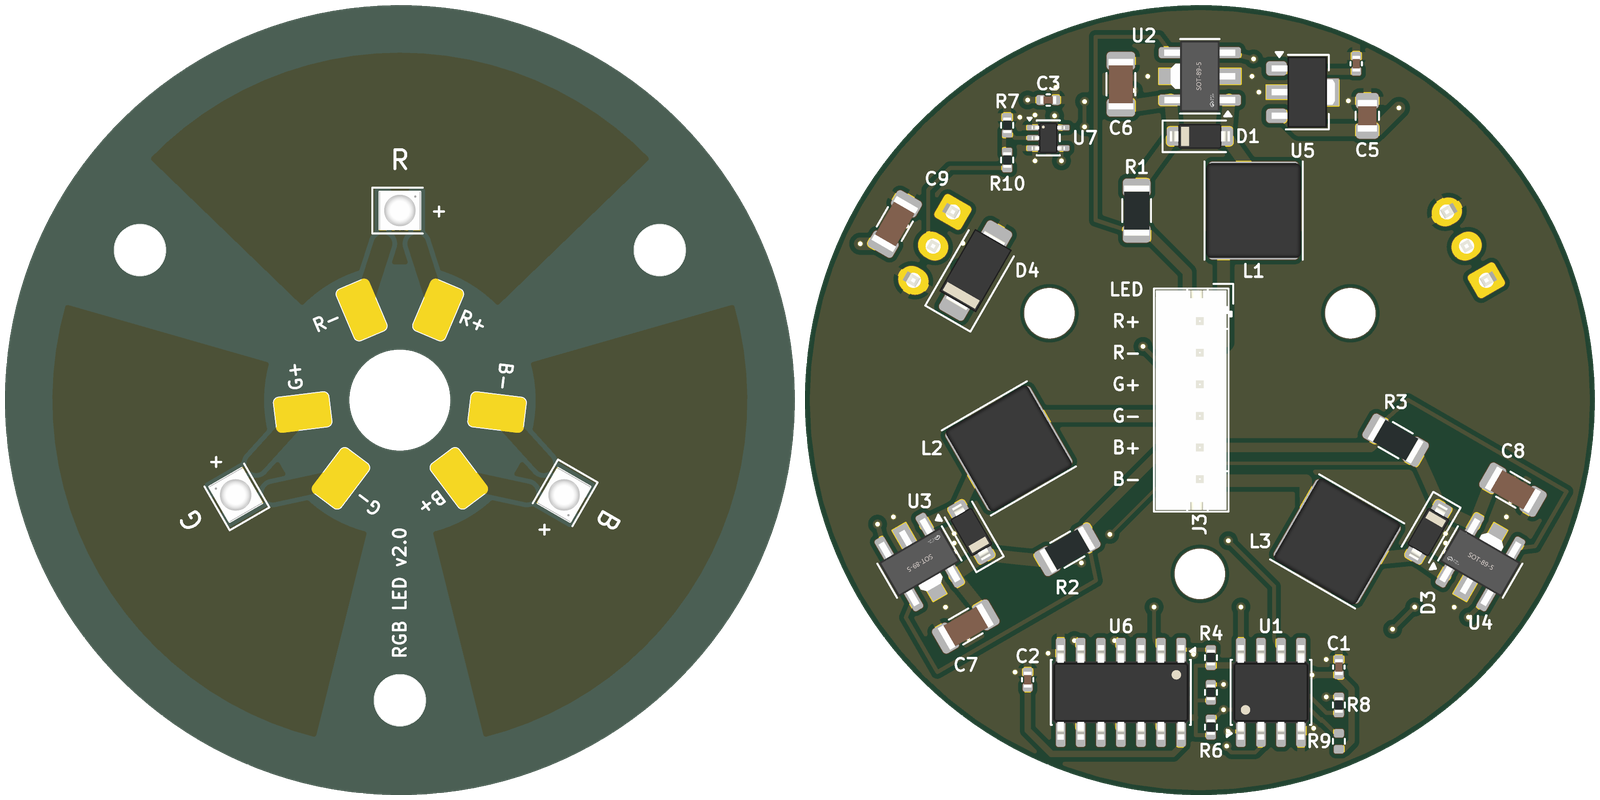
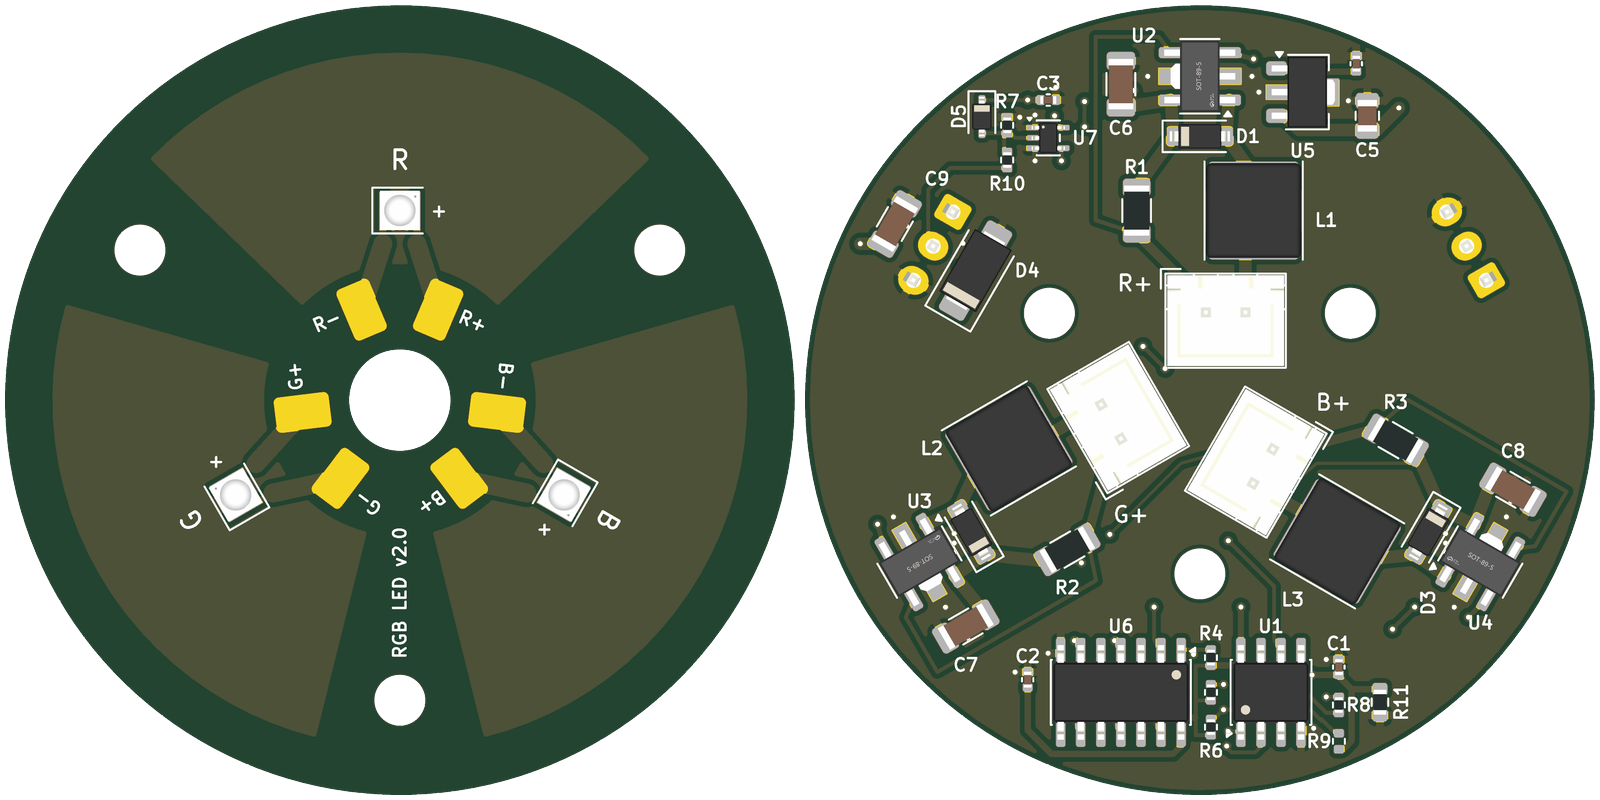
docs: the README follows the lamp as designed: housing, optics, the order
The README still described two boards "in an aluminium cylinder" and an
order in the cart. It now says what the design is on 2026-11-19:

- status: driver v2.4, LED board v2.0, led35 v1.0, housing round 8; the
  first order submitted to JLC and in its reviews, unpaid (the orders
  tracker; order.toml has no submitted event yet); the lenses ordered
- the lamp: lenses, carrier, hood and barn doors, the sheet-metal
  housing with its sizes, the heat plate and fins, the yoke; the LED
  board turned 45 degrees; the driver's clamp on the data input; the
  harness on three XH plugs
- the lamp's front view and section from the assembly guide's pictures
- firmware: only FastLED's timing is checked against the datasheet. The
  README said WLED works, which nobody has checked
- layout: mech/housing, releases, production/orders, the guide and the
  front page; the generator commands apart from the checks, with the
  rule that a released board is changed in place
- BOM: 22 lines at about $1.80 (was 20 and $1.70, before D5, R11 and
  the XH sockets)

docs/previews/v2-boards.png is put together again from the current
renders (docs/previews/led and driver, render-top.png): it showed the
driver with the 6-pin LED socket of v2.0, without D5 and R11.

diff --git a/README.md b/README.md
@@ -1,37 +1,64 @@
 # RGB Spotlight
 
-Status (2026-11-18): driver released as v2.4 (with D5, a clamp on the data input, R11, which holds the +5V rail when it clamps, three JST XH 2-pin sockets for the LEDs, and R10 rated for a feed voltage held on the data pin) and LED board as v2.0; a second LED board for 3.5 mm LEDs, `led35` v1.0, is released to be bought bare for trying other colours; the first order is in the JLC cart, unpaid, with driver v2.4. Start with [HANDOVER.md](HANDOVER.md).
+Status (2026-11-19): designed and released, not built yet. The driver is released as v2.4, the LED board as v2.0, a second LED board for 3.5 mm LEDs (`led35`) as v1.0, and the sheet-metal housing is in its eighth round. The first order, boards and housing for five lamps, was submitted to JLC on 2026-11-19: it is in JLC's reviews and not paid yet. The lenses were ordered the same day. Every figure on this page is calculated or simulated; none is measured. Start with [HANDOVER.md](HANDOVER.md).
 
-Chainable, addressable 3 x 3 W RGB spotlight for 12 V installations: an aluminium LED board and an FR4 driver board in an aluminium cylinder.
+Chainable, addressable 3 x 3 W RGB spotlight for 12 V installations: three LEDs, red, green and blue, each behind its own lens, in a square aluminium housing with four barn doors, on a yoke. One lamp is one WS2811 pixel.
 
-![v2 boards: LED board (aluminium) and driver board](docs/previews/v2-boards.png)
+![The lamp from the front, with the doors opened outwards](docs/assembly/img/lamp-front.webp)
+
+The pictures on this page are drawn from the design files. None is a photo.
 
 - **v1** (EasyEDA, one FR4 board) was built but never lit: the PT4115 stages were wired as the wrong kind of buck, and the 74HC04 was unpowered.
-- **v2** is a KiCad restart with two boards.
+- **v2** is a KiCad restart with two boards, an aluminium LED board and an FR4 driver board, and a housing designed around them.
 
 | Document | What's in it |
 | --- | --- |
 | [HANDOVER.md](HANDOVER.md) | how we got here, decisions, the work remaining |
 | [DESIGN.md](DESIGN.md) | requirements, the v1 post-mortem, numbered decisions, circuit, thermal estimate, simulation (§2.7), open items |
-| [LAYOUT.md](LAYOUT.md) | both PCBs: floor plans, rules, scripted copper and routing, outline presets, checks |
-| [PRODUCTION.md](PRODUCTION.md) | order files, order checklist (polarity!), harness and bring-up, costs |
+| [LAYOUT.md](LAYOUT.md) | the PCBs: floor plans, rules, scripted copper and routing, outline presets, checks |
+| [mech/housing/](mech/housing/README.md) | the housing: sheet-metal parts, bought fasteners, assembly order, the scripts that build it and the files to order it from |
+| [PRODUCTION.md](PRODUCTION.md) | order files, order checklist (polarity!), harness and bring-up, costs, the orders so far |
+| [production/orders/2026-11-16-v2-first/](production/orders/2026-11-16-v2-first/ORDER.md) | the first order: the versions it pins, the parts to buy besides, its events |
 | [docs/reviews/](docs/reviews/) | pre-order failure review: findings, bench list, firmware duties |
 | [docs/index.html](docs/index.html) | the project's front page: what the lamp is, where it stands, links. GitHub Pages serves `docs/` at <https://somebox.github.io/rgb-spotlight/> |
 | [docs/assembly/](docs/assembly/index.html) | assembly guide (HTML, open in a browser): the finished lamp, every part numbered, tools, and 14 steps with pictures drawn from the design files. Written before any part arrived: nothing in it is tried on hardware yet |
 
 ## What it does
 
-A high-power, addressable RGB pixel for spotlights and creative lighting. It speaks the WS2811 protocol, so it daisy-chains and works with FastLED, WLED and other WS2811-compatible software.
+A high-power, addressable RGB pixel for spotlights and creative lighting. It speaks the WS2811 protocol: 12 V and one data wire come in, and both go on to the next lamp.
 
+The three colours are not mixed inside the lamp. Each LED has its own lens, 12 mm off the lamp's axis, and the colours meet on the wall. Where a door's edge cuts the beam, each colour is cut at a slightly different place, which leaves three colour bands along the shadow. That is the effect the design is after (DESIGN D8, D21–D23). How the bands look is not known until a lamp is built.
+
+- **Optics:** three 20 mm PMMA TIR lenses, 30°, one over each LED.
+  - They sit in one printed carrier (MJF PA12), and the hood clamps them by their flanges.
+  - Four barn doors on the hood shape the beam, one pair at a time (D21, D22).
+  - To compare, lenses of 15° and 45° and with beaded and frosted faces are ordered too, and two taller carriers to try the focus (D27).
+- **Housing** ([mech/housing/](mech/housing/README.md)): sheet aluminium from JLCCNC, black powder coat.
+  - A 65 mm square shell with vent slots, a back cap, an 84 mm square hood, and a yoke with two knobs.
+  - About 94 mm long, 130 with the doors standing; about 0.38 kg (estimated).
+  - The cap's back has two cut-outs for the connectors and four M3 threads for a box with a controller and a power supply (D31).
+  - The yoke's base has one hole for a ¼ inch screw and two for M4.
+- **Cooling:** passive. The LED board lies on a 3 mm aluminium plate. Behind it, eight spacers and four fins on three tie rods take the LEDs' heat to the air that passes the shell's slots.
 - **LED board** (aluminium, 1 layer, 50 mm):
   - three XINGLIGHT HD2525 3 W LEDs (R/G/B), spread on a 12 mm-radius ring;
   - each LED on its own heat-spreading copper island;
-  - six wire pads around a centre hole for the harness.
-- **Driver board** (FR4, 2 layers, 50 mm), mounted 4–6 cm behind the LED board:
+  - six wire pads around a centre hole for the harness;
+  - turned 45° in the housing, so each LED has its own height and its own place from left to right (D23).
+- **Driver board** (FR4, 2 layers, 50 mm), on polyamide standoffs behind the fins, about 54 mm behind the LED board:
   - WS2811 pixel controller;
   - three PT4115 constant-current bucks (455 mA each);
-  - level shifter on DIN; inverter for the PWM polarity;
+  - level shifter on DIN, with a clamp for a feed voltage on the data pin (D28, D29, D34); Schmitt inverter for the PWM polarity;
   - 78L05 logic rail; TVS on the 12 V input.
+- **Harness:** three wire pairs from the LED board through the 12 mm bore down the middle of the plate, spacers and fins, each on its own JST XH 2-pin plug (D33).
+- **`led35`:** the LED board with pads for 3.5 mm LEDs, bought bare to try other colours on (D35).
+
+![The lamp cut through the middle, without doors and yoke](docs/assembly/img/lamp-section.webp)
+
+The numbers are the assembly guide's part numbers: shell 1, cap 2, hood 3, plate 6, fins 7, spacers 8, carrier 9, LED board 10, driver 11, lenses 12, LED leads 13, tie studs 15, standoffs 18.
+
+![LED board v2.0 and driver board v2.4](docs/previews/v2-boards.png)
+
+The LED board is drawn with a green mask; the ordered ones are white.
 
 ## Electrical specs
 
@@ -39,9 +66,11 @@ A high-power, addressable RGB pixel for spotlights and creative lighting. It spe
 - **Data:** WS2811 protocol, 800 kHz, single wire; 3.3 V or 5 V at DIN
 - **LED current:** about 455 mA per channel (`I = 0.1 V / 0.22 Ω`); LEDs rated 1 A / 3 W
 - **Full white:** 5.0 W, 0.42 A at 12 V per light (simulated, DESIGN.md §2.7); drivers about 80 % efficient
-- **Chaining:** JST XH connectors (3 A) pass 12 V/GND through: up to 5 lights per fused 12 V feed, 2.2–2.6 A (DESIGN.md §2.4). Use a 36 W supply for 4 lights and 60 W for 5, and add a feed per group after that.
-- **Heat:** about 2.7 W in the LED board, which needs a heatsink: the housing's heat plate. About 0.9 W in the driver, mostly in the three Schottky diodes. See DESIGN.md §2.6–2.7.
+- **Chaining:** JST XH connectors (3 A) pass 12 V/GND through: up to 5 lights per 12 V feed, 2.2–2.6 A, with a 3 A fuse at the supply end (DESIGN.md §2.4, D14, D15). Use a 36 W supply for 4 lights and 60 W for 5, and add a feed per group after that.
+- **Heat:** about 2.7 W in the LED board, which goes into the housing's heat plate and fins. About 0.9 W in the driver, mostly in the three Schottky diodes. See DESIGN.md §2.6–2.7.
 - **Dimming:** brightness follows the 8-bit level within 5 % above 20 % and within 20 % down to 5 %. The lowest few levels are unreliable (DESIGN.md §2.7).
+- **12 V on the data pin** (a mis-crimped cable): simulated with up to 15 V there, the level shifter's input stays at 5.43 V or less and the 5 V rail at 5.0 V (D28, D29). On the bench list.
+- **Firmware:** FastLED's `WS2811` (800 kHz) fits the WS2811's timing. ESPHome needs its timing set by hand (the review's firmware duties). WLED hasn't been checked. None of it has run on a lamp yet.
 
 ## Connections
 
@@ -52,7 +81,7 @@ A high-power, addressable RGB pixel for spotlights and creative lighting. It spe
 | J3 / J4 / J5 LED | driver, front (JST XH 2, vertical): red, green, blue | 1 `+`, 2 `-` |
 | TP1–TP6 | LED board, around the centre hole | `R+` `R-` `G+` `G-` `B+` `B-`; solder the wires here, a pair to each socket |
 
-J1 and J2 share one pin order, so chain with pin-1-to-pin-1 cables. v1 had J2 mirrored.
+J1 and J2 share one pin order, so chain with pin-1-to-pin-1 cables. v1 had J2 mirrored. In the housing, both are reached through the cap's cut-outs.
 
 1. Connect the controller's data to J1 pin 2 of the first light, and +12 V / GND to pins 1 / 3. Keep controller and power grounds common.
 2. Chain J2 of one light to J1 of the next.
@@ -64,24 +93,36 @@ J1 and J2 share one pin order, so chain with pin-1-to-pin-1 cables. v1 had J2 mi
 - `boards/led35/`: the LED board with pads for 3.5 mm LEDs (DESIGN D35), bought bare; `scripts/sch_led.py led35` and `scripts/make_led_pcb.sh led35`.
 - `lib/`: project symbols, footprints and 3D models (`scripts/make_lib.py`).
 - `scripts/`: generators and checks (`netcheck.py`, `ratsnest.py`, `make_previews.sh`, `make_fab.sh`); `pcbkit.toml` sets up pcb-kit's release and production record. The shared parts (schematic builder, silkscreen placer, DRC/ERC/board checks, previews, JLC fab files, ngspice runner) come from [pcb-kit](https://github.com/somebox/pcb-kit): `uv tool install -e ~/src/pcb-kit && pcbkit link`.
-- `sim/`: ngspice simulation of one LED channel (`sim/channel.py`); tables and plots in `sim/results/`.
+- `mech/housing/`: the housing as CadQuery scripts (`sheet.py`, then `round2.py` to `round8.py`, each changing the round before), its checks, and the STEP files and drawings to order from (`order6/`, `order7/`, `order8/`). Its [README](mech/housing/README.md) has the parts, the fasteners and the rebuild commands.
+- `releases/<board>/v<version>/`: a release's order files and its frozen KiCad project, written by `pcbkit release` and never rewritten.
+- `production/orders/<date>-<what>/`: an order's `order.toml` and the ORDER.md that `pcbkit production` writes from it.
+- `sim/`: ngspice simulations of one LED channel (`channel.py`) and of the data link between two lights (`data_cable.py`), and the review's worst-case numbers (`worst_case.py`); tables and plots in `sim/results/`.
 - `docs/previews/<board>/`: schematic PDF, board PNGs, 3D renders. `docs/previews/outline-presets.png` compares the board outline options.
-- **Board outline:** everything sits in a 50 mm core. The edge is a preset, `disc50` (current), `disc55`, `disc60` or `tabs3` (screw tabs). Change it with `scripts/set_outline.py`; see LAYOUT.md.
+- `docs/assembly/`, `docs/index.html`: the assembly guide and the front page. The guide's pictures come from `mech/housing/assembly_views.py`.
+- **Board outline:** everything sits in a 50 mm core. The edge is a preset, `disc50` (current, and what the housing takes), `disc55`, `disc60` or `tabs3` (screw tabs). Change it with `scripts/set_outline.py`; see LAYOUT.md.
 - `archive/v1-easyeda/`: the v1 EasyEDA exports, a KiCad import of the v1 board, its as-built netlist and the bodge guide.
 
+Checks, previews and a release:
+
 ```bash
-python3 scripts/sch_driver.py && python3 scripts/sch_led.py
 pcbkit erc boards/driver/driver.kicad_sch && python3 scripts/netcheck.py
-scripts/make_led_pcb.sh && scripts/make_driver_pcb.sh --force --route
 pcbkit drc boards/driver/driver.kicad_pcb --save && pcbkit check boards/driver/driver.kicad_pcb
 scripts/make_previews.sh all
 pcbkit release --dry-run                                    # then pcbkit release: versioned order files in releases/ (PRODUCTION.md)
 python3 sim/channel.py                                      # LED channel simulation
 ```
 
+How the boards were generated. A released board is not regenerated: change it in place (LAYOUT.md, "Regenerating").
+
+```bash
+python3 scripts/sch_driver.py && python3 scripts/sch_led.py
+scripts/make_led_pcb.sh && scripts/make_driver_pcb.sh --force --route
+```
+
 ## BOM
 
-- Driver: 20 lines, about $1.70 at qty 1. LED board: 3 lines, about $0.79 (bomi, 2026-11-14).
+- Driver: 22 lines, about $1.80 at qty 1 (bomi, 2026-11-17). JLC assembles 21 of them, 37 placements; J1 and J2 are soldered by hand. LED board: 3 lines, about $0.79 (bomi, 2026-11-14).
+- The lenses, the fasteners and the other parts bought besides the boards are listed in [PRODUCTION.md](PRODUCTION.md), "Parts for the open orders".
 - Each board has its own bomi project:
 
 ```bash
